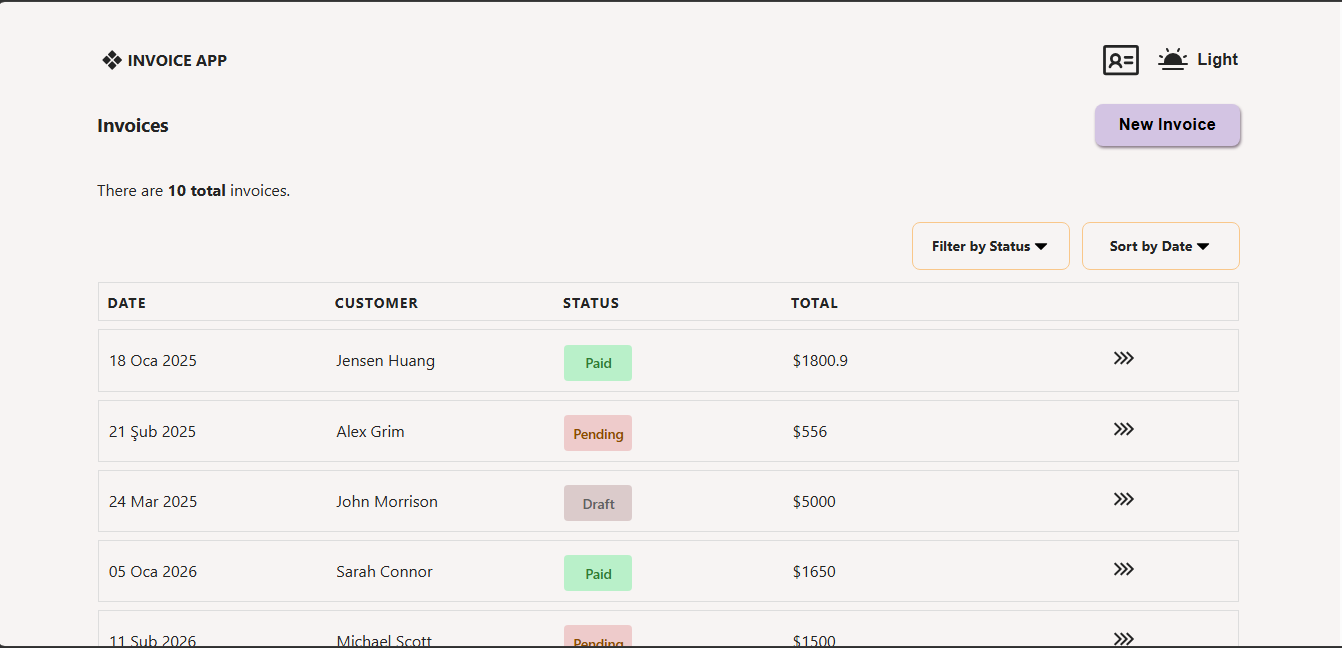
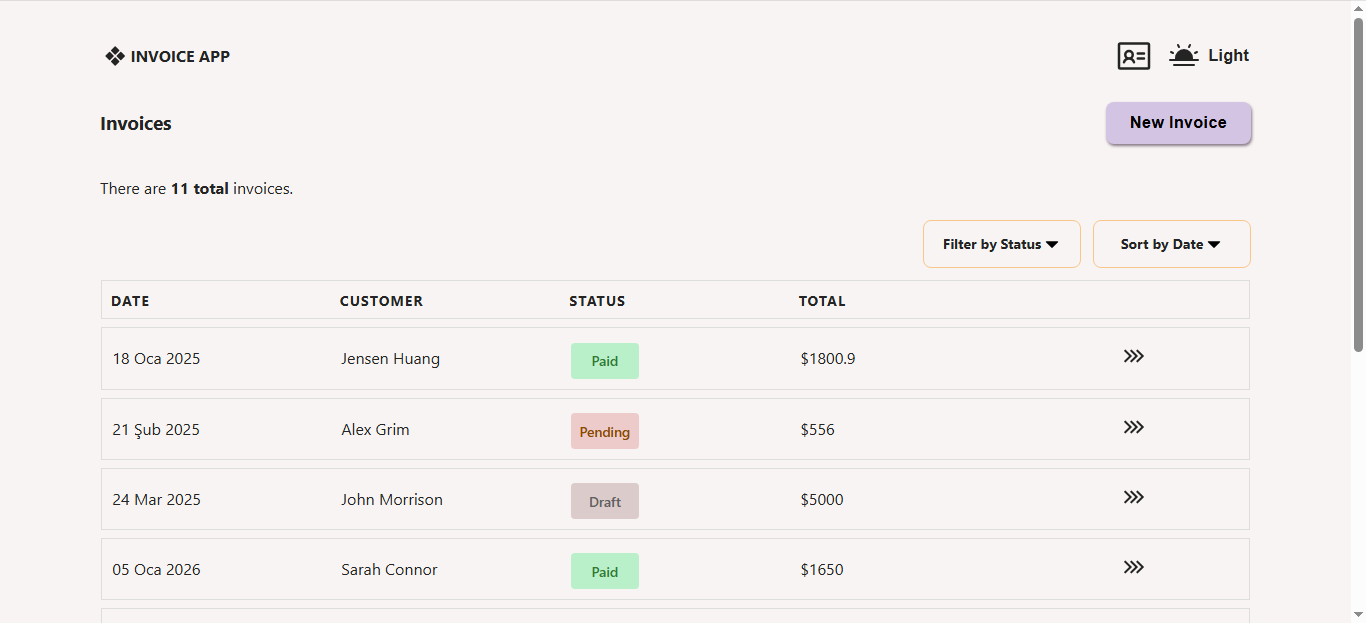
docs: improve setup instructions in README

diff --git a/README.md b/README.md
@@ -12,13 +12,23 @@ A simple yet functional **invoice management application** built with ReactJS.
 
 ## 📸 Screenshot
 
+#### Light Mode
+
 ![Invoice App Screenshot](./src/assets/screenshots/screenshot-1.png)
+
+#### Dark Mode
+
+![Invoice App Screenshot](./src/assets/screenshots/screenshot-2.png)
 
 ## ⚙ Installation
 
 Clone the project and install dependencies:
 
 ```bash
+git clone <repo-url>
+cd invoice-app-react
 npm install
+npm run dev
+
 
 ```
